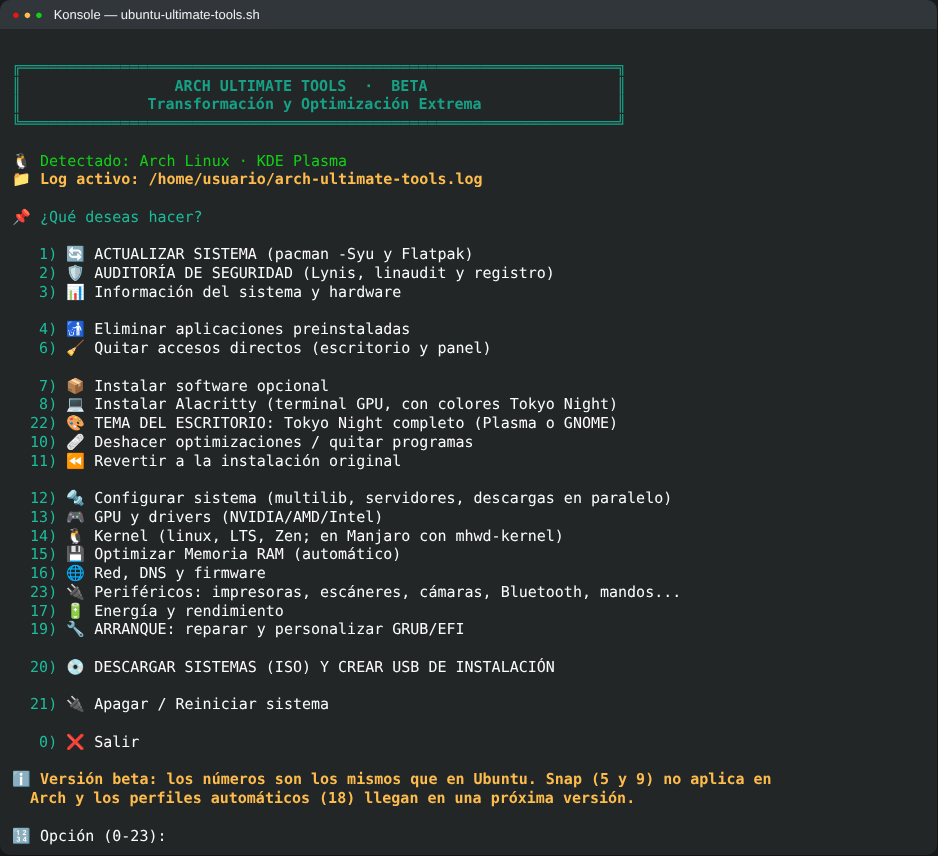
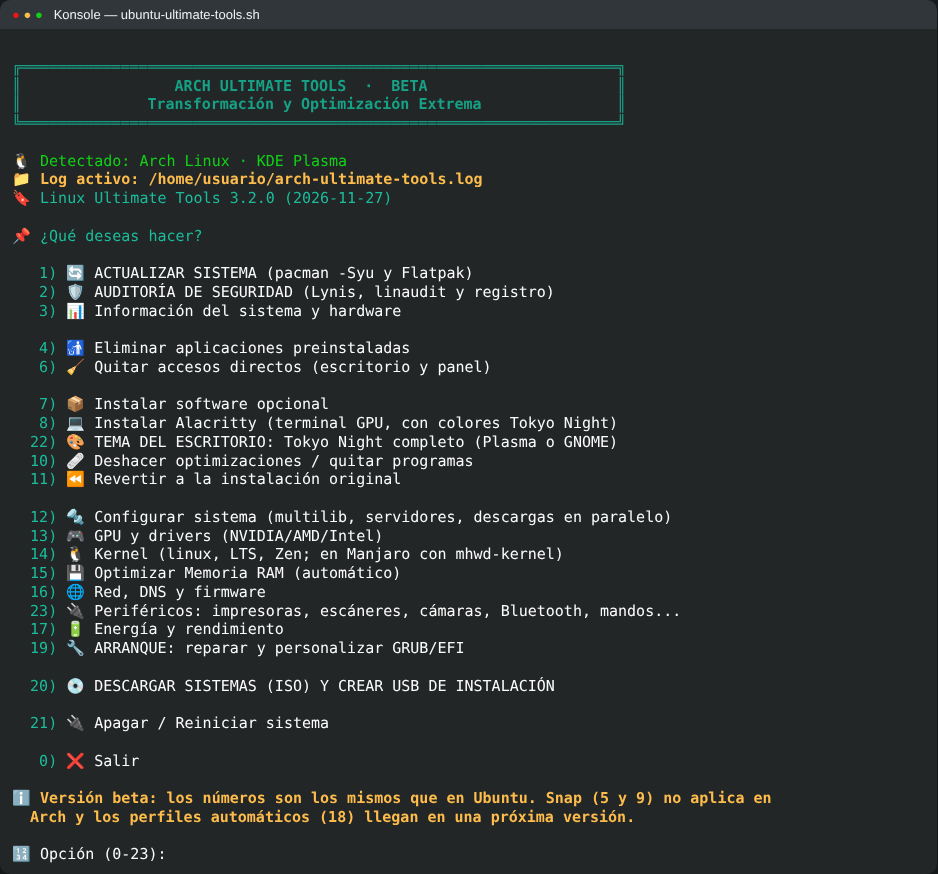
Versionado: Linux Ultimate Tools 3.2.0 y registro de cambios
Número de versión único para los tres scripts (UT_VERSION en partes/comun.sh),
en la cabecera del menú y con --version. CHANGELOG.md cuenta los 83 cambios
desde mayo en 8 versiones (0.1.0 a 3.2.0) con fecha, hito y líneas de cada una.
armar.sh no deja armar una versión sin su entrada en el CHANGELOG.

diff --git a/CHANGELOG.md b/CHANGELOG.md
@@ -1,0 +1,167 @@
+# Registro de cambios
+
+Todas las versiones de **Linux Ultimate Tools** (antes Ubuntu Ultimate Tools y Kubuntu Transformer). Los números siguen
+[Versionado Semántico](https://semver.org/lang/es/): **MAYOR** cuando cambia el alcance del proyecto o algo deja de
+funcionar como antes, **MENOR** cuando se agregan opciones, **PARCHE** cuando solo se arreglan errores.
+
+Los tres scripts (`ubuntu-`, `debian-` y `arch-ultimate-tools.sh`) comparten la misma versión. Para ver cuál tienes:
+
+```bash
+./ubuntu-ultimate-tools.sh --version
+```
+
+## Resumen
+
+| Versión | Fecha | Hito | Cambios | Líneas agregadas | Líneas quitadas |
+|---|---|---|---:|---:|---:|
+| [3.2.0](#320--2026-11-27) | 2026-11-27 | Temas, periféricos y versionado | 7 | 3.025 | 284 |
+| [3.1.0](#310--2026-11-26) | 2026-11-26 | Descargar sistemas, Ventoy y código en piezas | 14 | 24.386 | 727 |
+| [3.0.0](#300--2026-11-24) | 2026-11-24 | Linux Ultimate Tools | 20 | 5.932 | 692 |
+| [2.1.0](#210--2026-11-20) | 2026-11-20 | Debian y Arch (beta) | 8 | 15.431 | 710 |
+| [2.0.0](#200--2026-11-15) | 2026-11-15 | Ubuntu Ultimate Tools | 10 | 3.898 | 648 |
+| [1.1.0](#110--2026-11-09) | 2026-11-09 | Menú de arranque | 8 | 1.146 | 133 |
+| [1.0.0](#100--2026-11-01) | 2026-11-01 | Primera versión completa (Kubuntu) | 8 | 3.065 | 590 |
+| [0.1.0](#010--2026-05-22) | 2026-05-22 | Kubuntu Transformer | 8 | 2.270 | 0 |
+| **Total** | | | **83** | **59.153** | **3.784** |
+
+Hoy: **3 scripts** (Ubuntu, Debian y Arch), **23 opciones** en el menú principal, más de **40 sistemas** para descargar y
+el código en **8 piezas** (`partes/`) que `armar.sh` une.
+
+## [3.2.0] — 2026-11-27
+
+**Temas, periféricos y versionado.** Tema Tokyo Night completo para Plasma y GNOME (22), periféricos (23), htop a la vista, arreglos de descargas y número de versión con este registro de cambios.
+
+7 cambios · +3.025 / −284 líneas
+
+- Tema Tokyo Night para GNOME (opción 8)
+- Tokyo Night en GNOME también para las apps Qt
+- Opción 22: tema del escritorio Tokyo Night completo (Plasma y GNOME)
+- Información del sistema: htop como opción 13, a la vista
+- Descargas: arreglo de Zorin OS y openSUSE Leap
+- Opción 23: periféricos, detectar e instalar
+- Versionado (SemVer): versión en la cabecera y con `--version`, y este registro de cambios
+
+## [3.1.0] — 2026-11-26
+
+**Descargar sistemas, Ventoy y código en piezas.** Más de 40 distribuciones para descargar verificadas, Ventoy con persistencia, código compartido en `partes/` con `armar.sh` y revisión automática, perfil gaming-extremo, Wine y menús que vuelven al submenú correcto.
+
+14 cambios · +24.386 / −727 líneas
+
+- Crear USB: KDE neon y comprobación de las ISO que ya tienes
+- Crear USB: las tres ediciones de KDE neon (User, Testing y Unstable)
+- Crear USB: más de 30 sistemas para descargar, agrupados por base
+- Descargar sistemas y crear USB: familia Red Hat, openSUSE Leap, Slackware, Gentoo, Void y NixOS
+- Ventoy: varios sistemas en un solo pendrive, con persistencia (opción 20 → 4)
+- Código en piezas: lo compartido por los tres scripts se escribe una sola vez
+- Descargas: KDE neon en su carpeta nueva, Pop!_OS 24.04 y prueba de todas las distros
+- Descargas: GoldenDog Linux en la familia Debian
+- README: capturas del menú de auditoría y de linaudit
+- Menú principal: la opción 2 nombra a linaudit junto a Lynis
+- Perfil gaming-extremo al estilo CachyOS (Ubuntu) y Wine en el software opcional
+- Menús: 0 vuelve al submenú de donde vino, no al principal
+- Listas con casillas en Termux: dialog sin ratón y números en pantallas angostas
+- Listas con casillas también en el celular
+
+## [3.0.0] — 2026-11-24
+
+**Linux Ultimate Tools.** Un repositorio para todas las distribuciones. Auditoría de seguridad (Lynis, auditd, linaudit), crear USB de instalación, barra de avance, detección de la distribución y de todas las apps, listas con casillas y salida con 0 en todas las preguntas.
+
+20 cambios · +5.932 / −692 líneas
+
+- Auditoría de seguridad: Lynis sin instalar y registro de auditoría con auditd
+- Auditoría de seguridad como ítem propio (19) en los tres scripts
+- linaudit de Alexia Michelle en Auditoría de seguridad (19 → 2), con compilación temporal
+- Auditoría de seguridad pasa a la opción 2 del menú principal
+- Arranque: opción para ver los mensajes al arrancar (quitar el splash)
+- Arranque detallado (verbose): nombre correcto y restaurar la pantalla de carga
+- Crear USB de instalación (opción 20), fácil y a prueba de errores
+- Aviso del primer uso: licencia AGPL, sin garantía y que el script modifica el sistema
+- Barra de avance al instalar, quitar y actualizar paquetes; nombre del script en la terminal
+- Todas las preguntas tienen salida: 0 o Enter vuelve sin error
+- Cada script detecta la distribución y ofrece el script correcto
+- Eliminar aplicaciones detecta todas las apps instaladas, también Flatpak
+- Apps detectadas: con descripción, herramientas de configuración y LibreOffice suelto
+- Listas con casillas: línea del cursor resaltada y nada se sale del recuadro
+- Listas con casillas: el renglón resaltado y el botón activo se leen en cualquier terminal
+- Proyecto Linux Ultimate Tools: un repositorio para todas las distribuciones
+- README revisado: números, repositorio público, betas y preguntas frecuentes
+- Listas con casillas: se adaptan al agrandar o achicar la terminal
+- Al quitar apps, cada dependencia dice qué es; Python, Perl, apt y dpkg protegidos
+- Navegadores juntos (+Edge, Tor, SeaMonkey), telnet, swap, htop, salida 0 y ⚠ SISTEMA
+
+## [2.1.0] — 2026-11-20
+
+**Debian y Arch (beta).** Scripts beta para Debian y Arch con los mismos números de menú. Navegadores, licencia AGPL v3, instalar y quitar escritorios.
+
+8 cambios · +15.431 / −710 líneas
+
+- Versiones beta para Debian y Arch ([#20](https://github.com/george0884/linux-ultimate-tools/pull/20))
+- Navegadores Firefox (sin Snap) y Brave en los tres scripts ([#21](https://github.com/george0884/linux-ultimate-tools/pull/21))
+- Licencia AGPL v3, créditos del software usado y aceptación manual de las licencias del SDK de Android
+- Firefox .deb: queda registrado y se puede quitar, con fecha y origen
+- Chromium en software opcional (Ubuntu desde Flathub, Debian de sus repos)
+- Instalar un escritorio (Ubuntu Server o agregar otro), a prueba de errores
+- README, capturas y créditos: instalar un escritorio y Ubuntu Server
+- Quitar otros escritorios (los que no instaló el script), a prueba de errores
+
+## [2.0.0] — 2026-11-15
+
+**Ubuntu Ultimate Tools.** Nuevo nombre y todos los sabores de Ubuntu. Información del sistema, Steam y Proton, Revertir, tarjeta de rescate, desarrollo (APK, Android Studio, Flatpak, Docker) y arranque compatible con otras distribuciones.
+
+10 cambios · +3.898 / −648 líneas
+
+- Ubuntu Ultimate Tools: nuevo nombre y compatibilidad con todos los sabores de Ubuntu ([#10](https://github.com/george0884/linux-ultimate-tools/pull/10))
+- Información del sistema y hardware, Rolling Release solo Kubuntu y carpeta screenshots ([#11](https://github.com/george0884/linux-ultimate-tools/pull/11))
+- README: quitar contenido viejo y ordenar las secciones ([#12](https://github.com/george0884/linux-ultimate-tools/pull/12))
+- Steam y Proton (software opcional y perfil gaming) + Revertir a distribución original ([#13](https://github.com/george0884/linux-ultimate-tools/pull/13))
+- Arranque: tarjeta de rescate, arranque de respaldo UEFI y guías personalizadas ([#14](https://github.com/george0884/linux-ultimate-tools/pull/14))
+- Desarrollo: compilar APK, Android Studio, Flatpak y Docker, con respaldos y eliminación nuclear ([#15](https://github.com/george0884/linux-ultimate-tools/pull/15))
+- Menú principal agrupado y alineación de todos los menús ([#16](https://github.com/george0884/linux-ultimate-tools/pull/16))
+- Capturas: tarjeta de rescate con la opción 18 y perfiles sin cortes ([#17](https://github.com/george0884/linux-ultimate-tools/pull/17))
+- Arranque (opción 18) compatible con Debian, Arch, Manjaro, Fedora y openSUSE ([#18](https://github.com/george0884/linux-ultimate-tools/pull/18))
+- Menú de arranque: muestra solo las opciones que sirven en el equipo (UEFI, BIOS, Live USB, sin GRUB) ([#19](https://github.com/george0884/linux-ultimate-tools/pull/19))
+
+## [1.1.0] — 2026-11-09
+
+**Menú de arranque.** GRUB y EFI sin programas externos: sistema por defecto, otros sistemas, orden UEFI, ocultar entradas y reparación completa. 0 para volver en todos los menús.
+
+8 cambios · +1.146 / −133 líneas
+
+- Menú de arranque y EFI: sistema por defecto, os-prober, UEFI y herramientas ([#5](https://github.com/george0884/linux-ultimate-tools/pull/5))
+- MangoHud configurado al instalar las herramientas de juego ([#4](https://github.com/george0884/linux-ultimate-tools/pull/4))
+- Arranque sin programas externos: personalizar menú, reparación completa y menú ordenado ([#6](https://github.com/george0884/linux-ultimate-tools/pull/6))
+- GRUB: mostrar en pantalla el error de update-grub
+- GRUB: ocultar entradas sueltas, deshacer Grub Customizer y arreglo de "otros primero"
+- GRUB: ocultar entradas ofrece deshacer Grub Customizer en el momento
+- GRUB: ocultar UEFI y memtest sin romper update-grub, con vuelta atrás automática
+- Menús: 0 para volver en todos los submenús y para salir en el principal ([#9](https://github.com/george0884/linux-ultimate-tools/pull/9))
+
+## [1.0.0] — 2026-11-01
+
+**Primera versión completa (Kubuntu).** Perfiles automáticos, red y DNS, energía, kernels, reparación de GRUB desde Live USB, tema Tokyo Night, deshacer y licencia libre.
+
+8 cambios · +3.065 / −590 líneas
+
+- Arreglar cambio de kernels, rollback y accesos directos ([#1](https://github.com/george0884/linux-ultimate-tools/pull/1))
+- Perfiles automáticos, red/DNS/drivers, energía y apt más rápido ([#2](https://github.com/george0884/linux-ultimate-tools/pull/2))
+- Reparación de GRUB desde Live USB y listas con barra espaciadora
+- README para repositorio privado y menú con colores legibles
+- Licencia GPL v3 y tema Tokyo Night incluido en el script
+- Arreglos: idioma español en apt, BBR, fastfetch, GRUB y energía en gaming
+- Deshacer optimizaciones, registro de programas y arreglo de GRUB/energía
+- Deshacer: mostrar qué ajustes están cambiados y avisar al cancelar
+
+## [0.1.0] — 2026-05-22
+
+**Kubuntu Transformer.** Primer script para limpiar y transformar Kubuntu (`Kubuntu-clean.sh`).
+
+8 cambios · +2.270 / −0 líneas
+
+- Primer commit del repositorio
+- Script `Kubuntu-clean.sh` para transformar el sistema
+- README con los detalles de Kubuntu Transformer
+- Nombre del autor en el README
+- Script reorganizado y mejorado
+- Opciones del menú principal
+- Mensaje de salida
+- Mensaje de salida

diff --git a/README.md b/README.md
@@ -4,6 +4,7 @@
 
 ### Limpia, optimiza y repara Ubuntu, Debian y Arch (y sus derivadas) desde un solo menú
 
+[![Versión](https://img.shields.io/badge/Versión-3.2.0-7aa2f7.svg)](CHANGELOG.md)
 [![Licencia](https://img.shields.io/badge/Licencia-AGPL%20v3-blue.svg)](LICENSE)
 [![Bash](https://img.shields.io/badge/Shell-Bash-4EAA25?logo=gnu-bash&logoColor=white)](https://www.gnu.org/software/bash/)
 [![Ubuntu](https://img.shields.io/badge/Ubuntu-22.04%2B-E95420?logo=ubuntu&logoColor=white)](https://ubuntu.com/)
@@ -931,7 +932,17 @@ bash armar.sh   →   ubuntu-ultimate-tools.sh   debian-ultimate-tools.sh   arch
 - **Para usarlo no cambia nada**: cada script sigue siendo un solo archivo completo, que se baja y se ejecuta igual.
 - **Para cambiar algo**: edita la pieza en `partes/`, corre `bash armar.sh` y sube las piezas y los scripts.
   No edites los scripts finales a mano: la próxima vez que se armen, se pierde el cambio.
+- **Versión**: está en `partes/comun.sh` (`UT_VERSION`) y se ve en la cabecera y con `--version`. Al subirla, agrega
+  su entrada en [CHANGELOG.md](CHANGELOG.md); `armar.sh` no deja armar una versión sin su entrada.
 - En cada PR, GitHub comprueba que los scripts coincidan con las piezas, la sintaxis y ShellCheck.
+
+---
+
+## 🔖 Versiones
+
+Versión actual: **3.2.0** (2026-11-27). Todos los cambios, contados por versión, están en
+[CHANGELOG.md](CHANGELOG.md). Para ver qué versión tienes: `./ubuntu-ultimate-tools.sh --version` (o el script de
+tu distribución); también aparece en la cabecera del menú.
 
 ---
 
